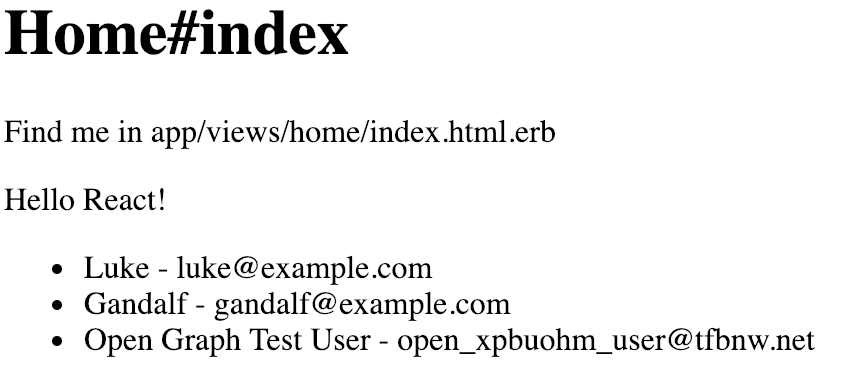
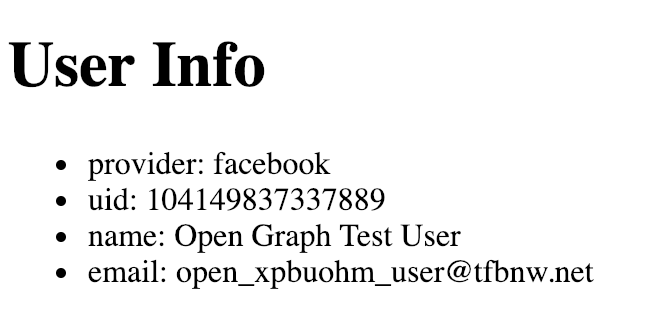
doc: updates Adding OAuth doc
The document "Adding OAuth" was updated to reflect the change in plan.
This app does token based authentication, so code examples and section
organizations were updated.

Changed region(s): [[0.0, 0.4811, 0.9726, 0.9906], [0.0, 0.0283, 0.4255, 0.283], [0.0, 0.3113, 0.6687, 0.4245]]

diff --git a/AddingOAuth.md b/AddingOAuth.md
@@ -6,15 +6,16 @@ Before trying steps of this document, OAuth provider setting should be completed
 Read [Setting Up Facebook Login](./SettingUpFacebookLogin.md) to learn how to setup
 OAuth by Facebook.
 
-This document focuses only on Rails side. Later, (by the next document),
-OAuth with GraphQL will be described.
+This document focuses only on Rails side. In another document,
+OAuth with React and GraphQL will be discussed. Rails side OAuth implementation is,
+just in case, the server side wants to authenticate a user. This is mostly testing purpose.
 
 1. Install OAuth related gems
 
     Typical gems for Rails to provide OAuth feature is `omniauth`, which works with `devise`.
-    Not to expose Facebook APP ID and Secret, `dotenv-rails` gem is used, but only for
-    development and test. When the app is deployed on cloud, such as Heroku,
-    a cloud specific way of setting environment variables exists.
+    Not to expose Facebook APP ID and Secret, `dotenv-rails` gem is used here,
+    but `dotenv` is only for development and test. When the app is deployed on cloud,
+    such as Heroku, a cloud specific way of setting environment variables exists.
     
     - Add `devise` and `omniauth-facebook` gems
         ```ruby
@@ -36,16 +37,21 @@ OAuth with GraphQL will be described.
 
 2. Setup `devise`
 
-    Do below to setup `devise`. This is a common ritual to start using `devise`.
-    The command below assumes User model is already there. In this app, the model
+    Do below to setup `devise`. These are common steps to start using `devise`.
+    The command below assumes User model is already there. In this app, the User model
     was created while going over [Getting Started](./GettingStarted.md).
 
     - `rails g devise:install`
     - `rails g devise User`
     
-    Before running migration, `email` line should be commented out since it is
-    there.
+    Some of devise setting blog posts include `rails g devise:views` in addition to two above.
+    However, this app doesn't need devise view. Since this app's client side is
+    ReactJS, it doesn't use a traditional HTML page.
     
+    Before running migration, `email` line should be commented out from the migration file
+    since `email` column has been created already.
+    
+    - Open `db/migrate/TIMESTAMP_add_devise_to_users.rb`
     - Comment out the line `# t.string :email, null: false, default: ""` 
     - `rails db:migrate`
 
@@ -75,17 +81,16 @@ OAuth with GraphQL will be described.
 
     - Create a migration
     ```bash
-    rails g migration AddOmniauthToUsers provider:string uid:string token:string token_expires_at:integer
+    rails g migration AddOmniauthToUsers provider:string uid:string
     ```
     - `rails db:migrate`
 
 6. Make the user model omniauthable
 
     Add `devise :omniauthable, omniauth_providers: [:facebook]` to `app/models/user.rb`.
+    Delete the rest of `devise` settings.
     ```ruby
-    devise :database_authenticatable, :registerable,
-           :recoverable, :rememberable, :validatable,
-           :omniauthable, omniauth_providers: [:facebook]
+    devise :omniauthable, omniauth_providers: [:facebook]
     ```
 
     Right after adding above, new paths for OAuth wil be added.
@@ -126,27 +131,18 @@ OAuth with GraphQL will be described.
         
           private
           def callback_for(provider)
-            user = User.from_omniauth(request.env["omniauth.auth"])
-            sign_in_and_redirect user, event: :authentication if user.persisted?
+            @user = User.from_omniauth(request.env["omniauth.auth"])
           end
         end
         ```
     - Add callback method, `from_omniauth`, in `app/models/user.rb`
         When the callback method in the controller gets invoked,
         User model's `from_omniauth` will be called and return a User instance.
-
-        The `password` field is not apparent as far as looking at schema and model
-        definition. However, `devise` requires to set some value as the password.
-        It is OAuth authentication, so this app never receives users' password.
-        A good value would be `Devise.friendly_token[0,20]`.
         
         ```ruby
         class User < ApplicationRecord
-          # Include default devise modules. Others available are:
-          # :confirmable, :lockable, :timeoutable, :trackable and :omniauthable
-          devise :database_authenticatable, :registerable,
-                 :recoverable, :rememberable, :validatable,
-                 :omniauthable, omniauth_providers: [:facebook]
+          # Include devise modules.
+          devise :omniauthable, omniauth_providers: [:facebook]
           # validation
           validates_presence_of :name, :email
         
@@ -154,12 +150,20 @@ OAuth with GraphQL will be described.
             where(provider: auth.provider, uid: auth.uid).first_or_create do |user|
               user.email = auth.info.email
               user.name = auth.info.name
-              user.token = auth.credentials.token
-              user.token_expires_at = auth.credentials.expires_at
-              user.password = Devise.friendly_token[0,20]
             end
           end
         end
+        ```
+    - Create a view to show result
+        To show what user is authenticated, create a simple view `app/views/users/omniauth_callbacks/facebook.html.erb`.
+        ```html
+        <h1>User Info</h1>
+        <ul>
+            <li>provider: <%= @user.provider %></li>
+            <li>uid: <%= @user.uid %></li>
+            <li>name: <%= @user.name %></li>
+            <li>email: <%= @user.email %></li>
+        </ul>
         ```
 
 8. Update __Valid OAuth Redirect URIs__
@@ -183,13 +187,9 @@ OAuth with GraphQL will be described.
     
     On a web browser, hit `http://localhost:3000/users/auth/facebook`.
     
-    After OAuth approval sequences, a user will be created. Then, the page is
-    redirected to root path.
-    
-    This app's root page shows a list of users as described in
-    [Using GraphQL from React](./UsingGraphQLfromReact.md). A newly created user by OAuth
+    After OAuth approval sequences, a user will be created. Then, the user's information
     will show up.
-    
+
     ![A New User by OAuth](./docs/images/new_user_by_oauth.png)
 
 
